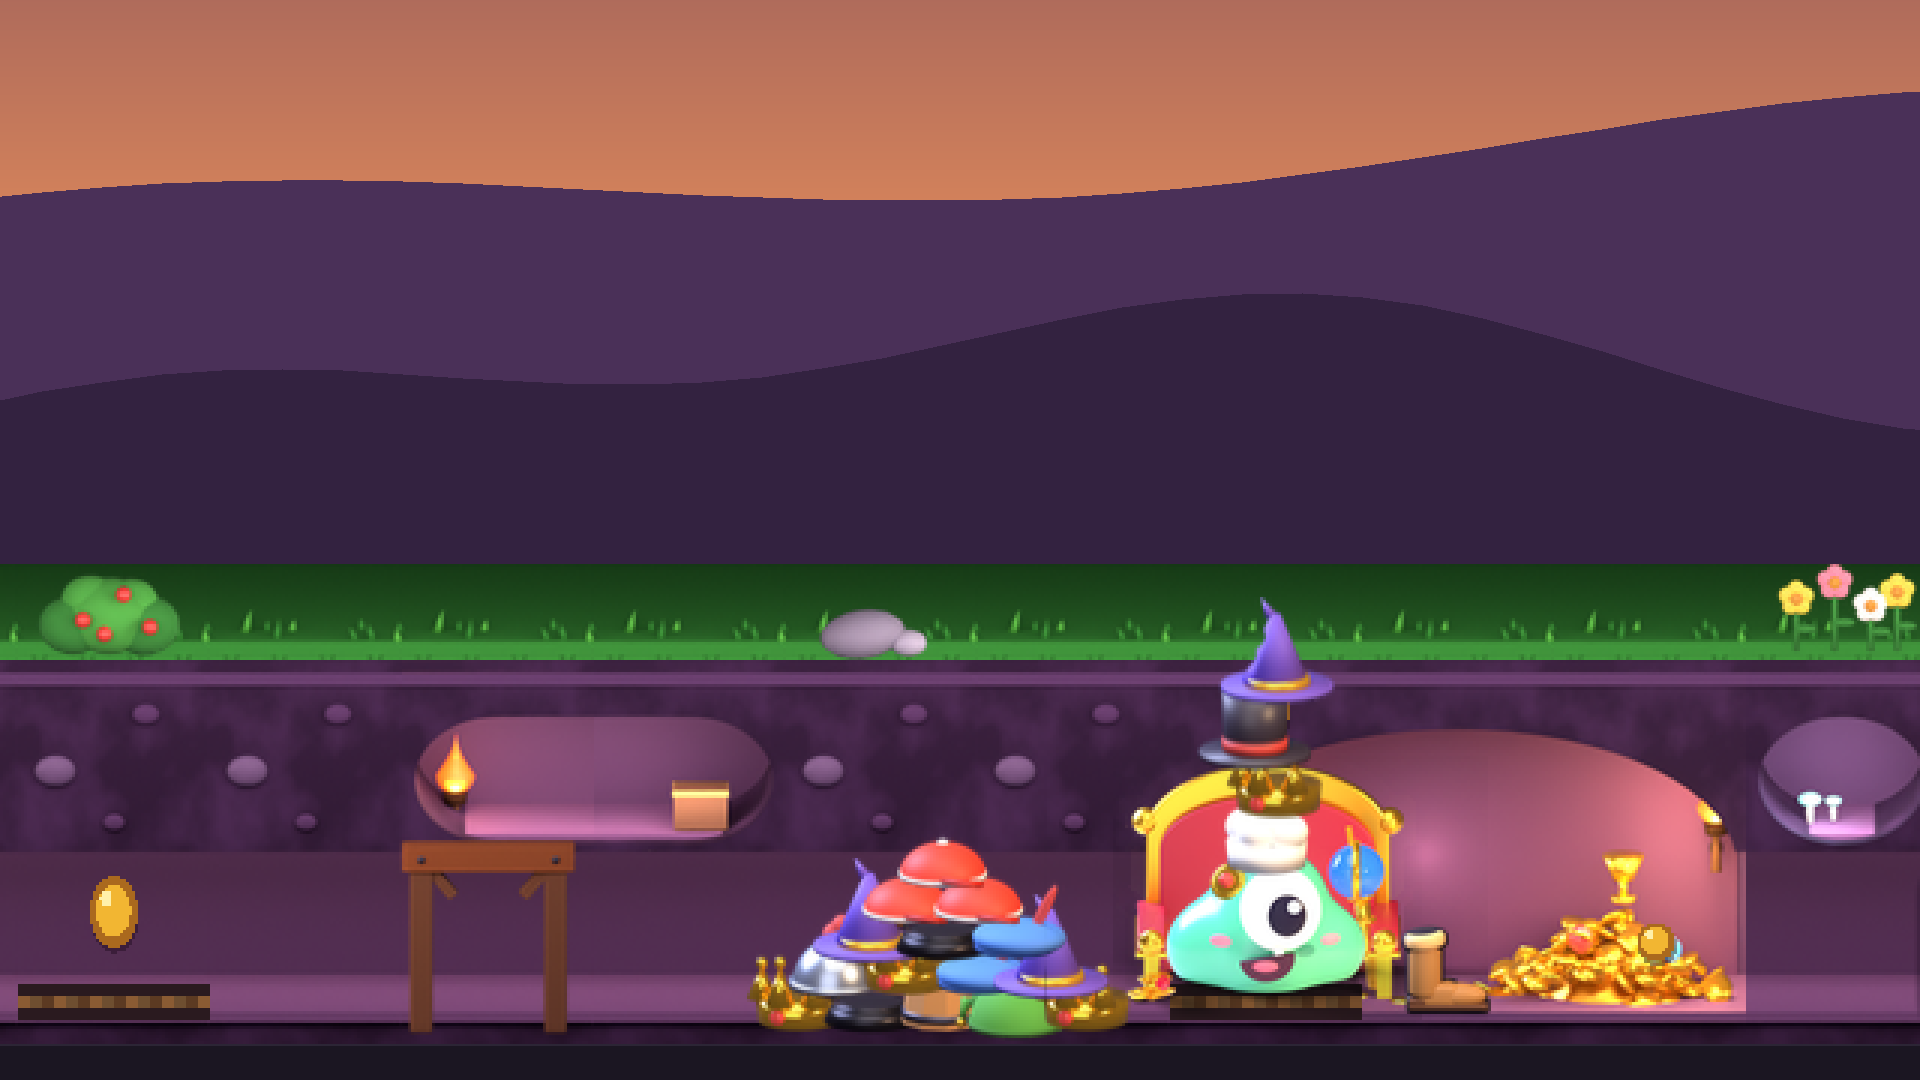
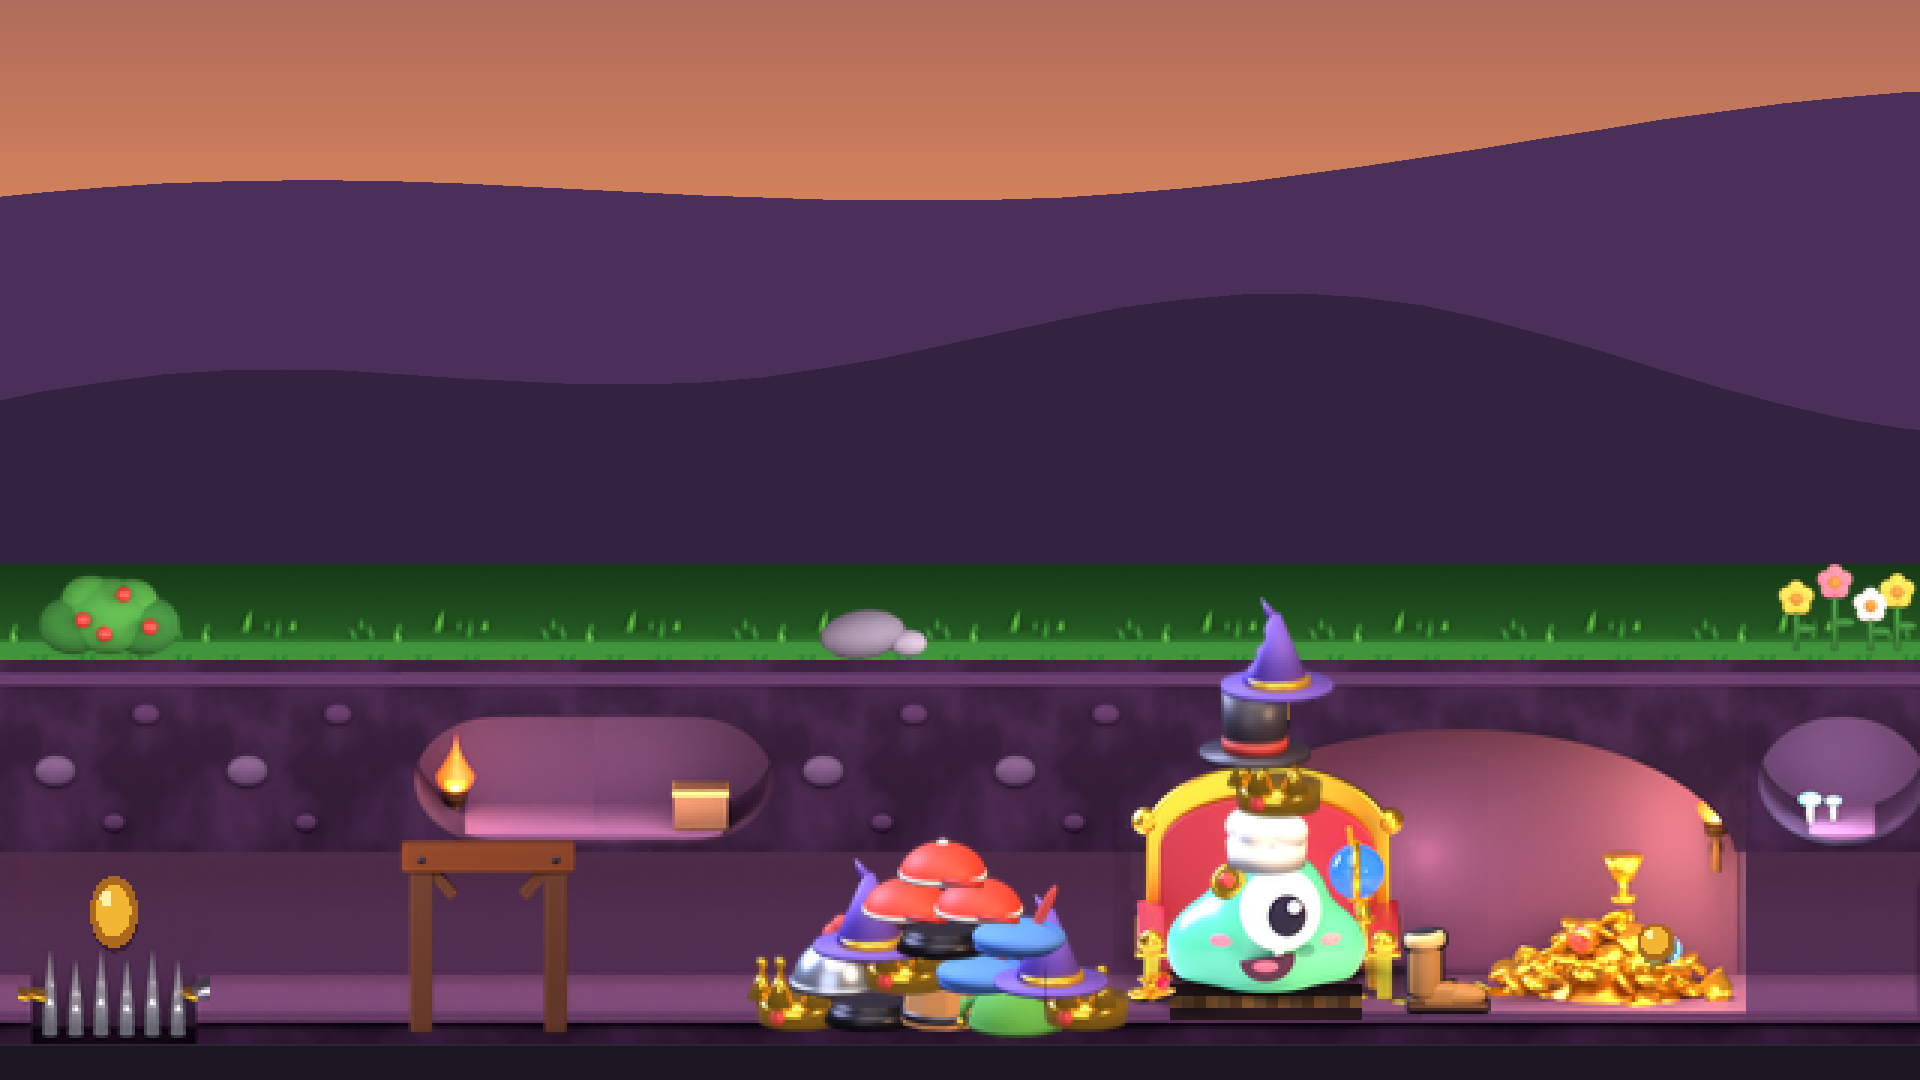
Mila: schermen 1 en 2 met 3D-put, proef zoom 4
Claude-Session: https://claude.ai/code/session_01RMWUyj6Fpe8NyzXzdBodJw

Changed region(s): [[0.0, 0.8861, 0.125, 0.9778]]

diff --git a/ontwerp/steam/winkelpagina/schermen-3d/LEESMIJ.md b/ontwerp/steam/winkelpagina/schermen-3d/LEESMIJ.md
@@ -14,3 +14,9 @@ Uit Olafs voorstel (`producten/steam-hol/bewijs-winkel3d/schermen-3d-voorstel/`)
 - Volgorde: hoedentoren eerst (de haak), dan bureaublad (hoe het op je scherm ligt), dan het verhaal (wrok, kaartje, ontmoeting).
 - Open: de zoomschermen zijn voor ±60% avondlucht; de strook zit onderaan. Zo staat hij echt op je bureaublad (eerlijk), maar op Steam is het eerste scherm klein; een volgende ronde kan de snede lager leggen (minder lucht) als Daan dat op leesbaarheid ook vindt.
 - Daan keurt op fouten en leesbaarheid. `overzicht.png`: alle vijf.
+
+## 14 nov ±14:50 UTC (Mila): put in 3D, proef minder lucht
+- Scherm 1 en 2 overgenomen uit Olafs `producten/steam-hol/bewijs-winkel3d/schermen-3d-put3d/` (week 160, run 43599002529, main 18e2253, beeld 395, zelfde snedes). Nagemaakt met mijn script op hetzelfde beeld: scherm 1 is bit voor bit gelijk. Links staat nu de 3D-stekelput met het koopmuntje, geen pixelplank meer.
+- Nog een pixelstuk: de donkere plank onder de troon. Olaf haalt die weg (tak `claude/steam-hol-put-schat`, wacht op Daan); daarna scherm 1 en 2 nog één keer uit een nieuwe weekopname.
+- **Proef voor Daans kan (b), minder lucht:** `proef-scherm-1-zoom4.png` (`zoom 1146 4`). De strook is dan 59% van het beeld en Gloop met toren ±1,3 keer zo groot. GEZIEN met Read. Wat je verliest: de oranje avondlucht (de mooiste kleur van het scherm), de stekelput links valt eruit, en het beeld wordt zachter (de opname is 160 px hoog, 4 keer vergroot). `zoom 1082 4` houdt de put erin maar snijdt Gloop aan de rand af.
+- **Besluit: scherm 1 blijft voorlopig `zoom 1146 3`.** Waarom: op 3x zie je in één beeld put, hoedenberg, Gloop op de troon en schat, met de avondlucht als kleur; 4x wint grootte maar verliest scherpte en verhaal. Bij de volgende opname (zonder plank onder de troon) leg ik beide nog eens naast de toppers op Steam-formaat (600 breed) en kies dan definitief.
